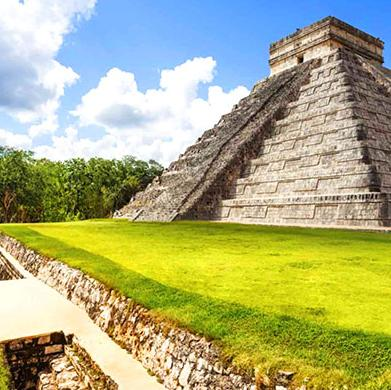
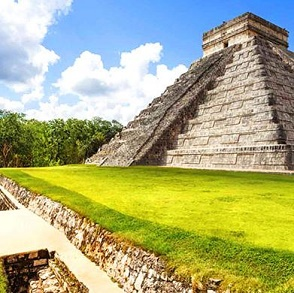
contunuamos con las modificaciones

diff --git a/Evaluacion Final/css/estiloindex.css b/Evaluacion Final/css/estiloindex.css
@@ -82,18 +82,16 @@ body{
   width: 100%;
 }
 
-.retrato{
+#retrato{
   margin: 0 auto;
   width: 38%;
   padding: 1%;
-  border-radius: 10px;
 }
 
-.paisaje{
+#paisaje{
   margin: 0 auto;
   width: 38%;
   padding: 1%;
-  border-radius: 10px;
 }
 
 /********************************************FOOTER*******************************************/
@@ -132,4 +130,32 @@ div[class^='caja']{
 }
 .caja4 h1,label{
   margin-bottom: 20px;
+}
+
+/****************************************************************************/
+
+@media all and (max-width: 900px) {
+	.contenedor {
+		width: 100%;
+    text-align: center;
+		order: 1;
+	}
+  .hader2 p{
+    margin-left: 10%;
+    text-align: center;
+
+  }
+
+.contenedorsecundario,,.contenedorgeneral{
+  display: flex;
+  flex-flow: wrap;
+}
+
+footer{
+  height: auto;
+}
+div[class^='caja']{
+  display:inline;
+}
+
 }

diff --git a/Evaluacion Final/css/estilosretratos.css b/Evaluacion Final/css/estilosretratos.css
@@ -84,9 +84,12 @@ body{
 }
 
 div [class^='box']{
-  min-height: 80px;
-  padding: 10px 40px;
-  flex: 2 3 100px;
+  padding: 3%;
+  flex: 2 3 30%;
+}
+img [class^='retrato']{
+  width: 80%;
+  height: 80%;
 }
 
 img{
@@ -130,4 +133,32 @@ div[class^='caja']{
 }
 .caja4 h1,label{
   margin-bottom: 20px;
+}
+
+/***************************************************************************/
+@media all and (max-width: 900px) {
+  .contenedor {
+		width: 100%;
+    text-align: center;
+		order: 1;
+	}
+  .hader2 p{
+    margin-left: 10%;
+    text-align: center;
+
+  }
+
+.contenedorarriba,.contenedorabajo,.contenedor{
+  display: flex;
+  flex-flow: wrap;
+  margin: 0 auto;
+}
+
+footer{
+  height: auto;
+}
+div[class^='caja']{
+  display:inline;
+}
+
 }

diff --git a/Evaluacion Final/css/estilopaisajes.css b/Evaluacion Final/css/estilopaisajes.css
@@ -86,7 +86,7 @@ body{
 
 div [class^='box']{
   min-height: 80px;
-  padding: 10px 40px;
+  padding: 1%;
   flex: 2 3 100px;
 }
 
@@ -130,4 +130,32 @@ div[class^='caja']{
 }
 .caja4 h1,label{
   margin-bottom: 20px;
+}
+
+/******************************************************************************/
+
+@media all and (max-width: 900px) {
+	.contenedor {
+		width: 100%;
+    text-align: center;
+		order: 1;
+	}
+  .hader2 p{
+    margin-left: 10%;
+    text-align: center;
+
+  }
+
+.contenedorarriba,.contenedorabajo,.contenedor{
+  display: flex;
+  flex-flow: wrap;
+}
+
+footer{
+  height: auto;
+}
+div[class^='caja']{
+  display:inline;
+}
+
 }

diff --git a/Evaluacion Final/index.html b/Evaluacion Final/index.html
@@ -22,8 +22,8 @@
     <div class="contenedorcentral">
       <img src="images/central.jpg" alt="imagen principal" id="imagencentral">
       <div class="contenedorsecundario">
-        <img src="images/retrato.jpg" alt="retrato" calss="retrato">
-        <img src="images/paisaje.jpg" alt="paisaje" class="paisaje">
+        <img src="images/retrato.jpg" alt="retrato" id="retrato">
+        <img src="images/paisaje.jpg" alt="paisaje" id="paisaje">
       </div>
     </div>
   </body>
